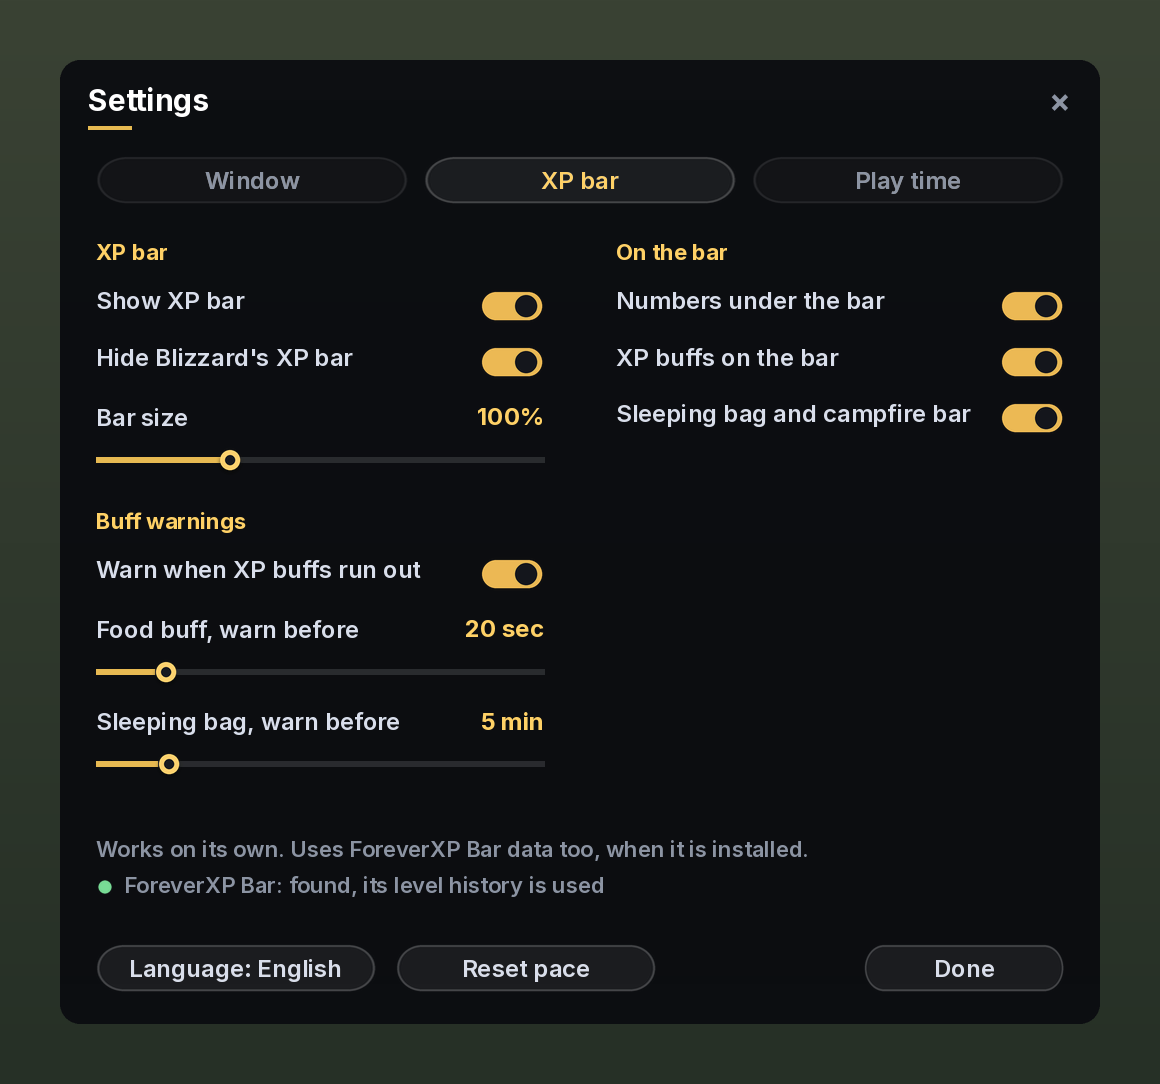
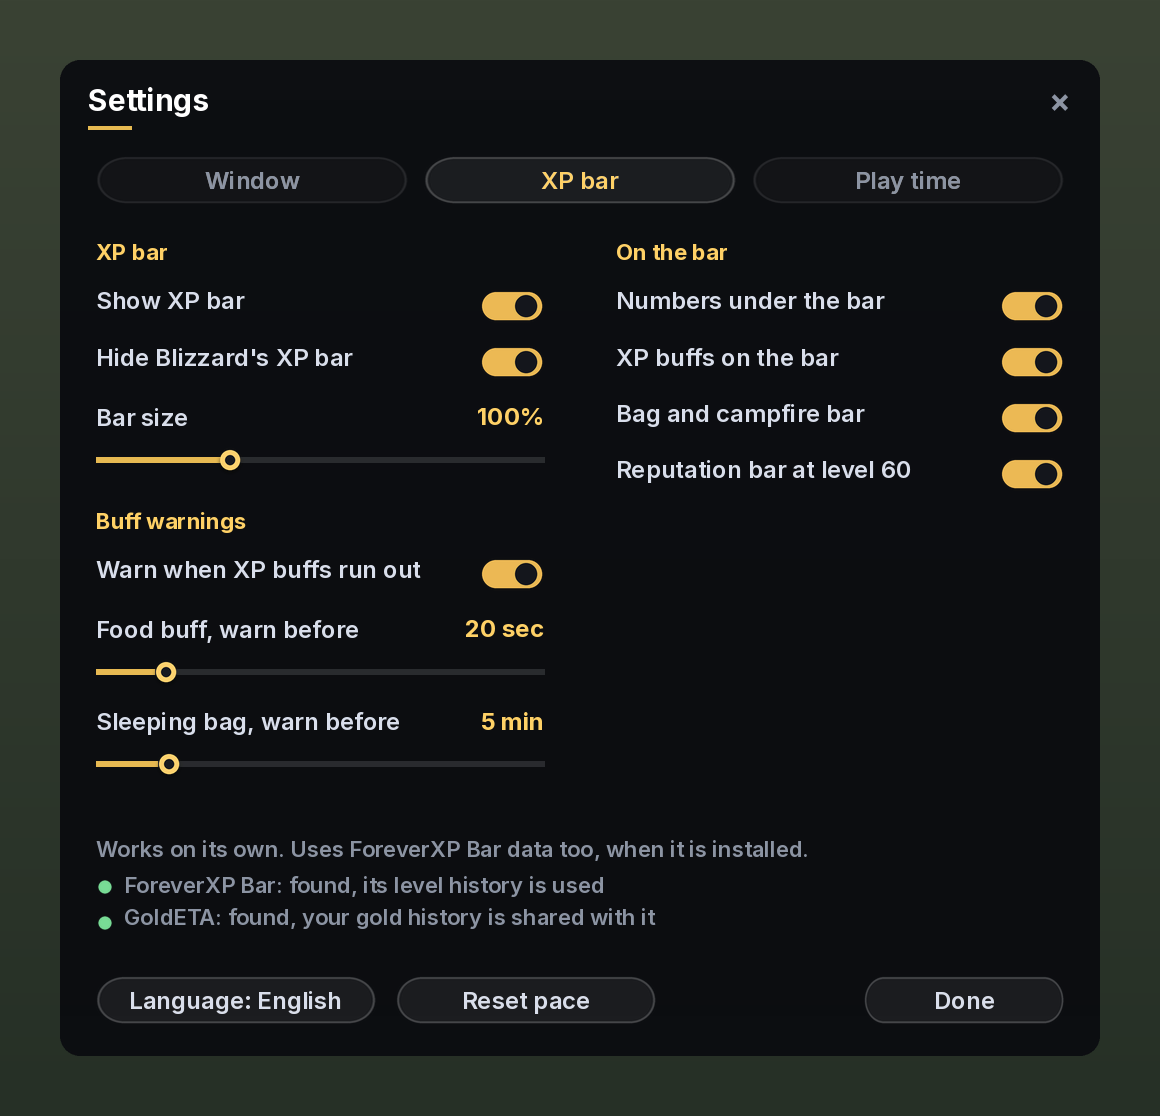
New screenshots: settings and the GoldETA section
Claude-Session: https://claude.ai/code/session_01DXBRuJZEvaLALH5p4FBrk6

diff --git a/README.md b/README.md
@@ -65,6 +65,8 @@ You can turn the recap and the reputation bar off in the settings.
 
 If [**GoldETA**](https://github.com/Nielsen2211/GoldETA) is installed, your mount goal is shown in LevelETA's window, right under the level rows: your gold, gold per hour, when the gold is ready, and whether you have it before level 40.
 
+![LevelETA with GoldETA](screenshots/with-goldeta.png)
+
 LevelETA also keeps a small gold history in the background: income and spending from the last 3 hours of play (spending at a vendor or flight master is marked as such), your total income over all play time, and your gold at each level up. It is not shown in LevelETA. It is there so GoldETA has your gold per hour from the first minute, even if you install it later.
 
 Other addons can do the same through `LevelETA_API` (`RegisterSection`, `GetLevelETA`, `PlayETA`, `GetGoldHistory`, `Refresh`).
